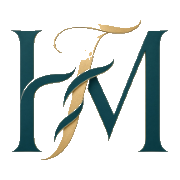
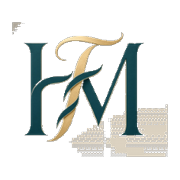
Drop the extra Her First Meal line and restore the full monogram

diff --git a/src/routes/index.tsx b/src/routes/index.tsx
@@ -75,13 +75,10 @@ function Hero({ content, variant }: { content: LandingContent; variant: "cinemat
       <section className="grid min-h-[100dvh] bg-wash-linen lg:grid-cols-2">
         <div className="flex flex-col justify-end px-4 py-24 md:px-10 md:py-28">
           <h1>
-            <HouseMark className="h-20 w-auto md:h-24" />
+            <HouseMark className="h-20 w-auto max-w-none md:h-24" />
             <span className="sr-only">Her First Meal</span>
           </h1>
-          <p className="mt-8 font-display text-[clamp(2.4rem,5vw,4.6rem)] leading-[1.05] text-ink">
-            Her First Meal
-          </p>
-          <p className="mt-4 font-display text-[clamp(1.8rem,3.6vw,3rem)] leading-[1.1] text-ink">
+          <p className="mt-8 font-display text-[clamp(1.8rem,3.6vw,3rem)] leading-[1.1] text-ink">
             The world celebrates the baby.
             <span className="mt-2 block italic text-gold">We remember the mother.</span>
           </p>
@@ -121,14 +118,11 @@ function Hero({ content, variant }: { content: LandingContent; variant: "cinemat
         }
       >
         <div className={centered ? "stagger max-w-3xl" : "stagger max-w-3xl"}>
-          <h1 className={centered ? "flex flex-col items-center" : ""}>
-            <HouseMark className={`h-24 w-auto md:h-32 ${centered ? "mx-auto" : ""}`} />
+          <h1 className={`overflow-visible ${centered ? "flex flex-col items-center" : ""}`}>
+            <HouseMark className={`h-28 w-auto max-w-none md:h-36 ${centered ? "mx-auto" : ""}`} />
             <span className="sr-only">Her First Meal</span>
           </h1>
-          <p className={`mt-8 font-display text-[clamp(2.6rem,6vw,5rem)] leading-[1.02] text-paper [text-shadow:0_10px_32px_rgba(12,16,14,0.4)] ${centered ? "text-center" : ""}`}>
-            Her First Meal
-          </p>
-          <p className={`mt-5 font-display text-[clamp(1.7rem,3.8vw,3.1rem)] leading-[1.12] text-paper [text-shadow:0_8px_28px_rgba(12,16,14,0.35)] ${centered ? "text-center" : ""}`}>
+          <p className={`mt-8 font-display text-[clamp(1.7rem,3.8vw,3.1rem)] leading-[1.12] text-paper [text-shadow:0_8px_28px_rgba(12,16,14,0.35)] ${centered ? "text-center" : ""}`}>
             The world celebrates the baby.
             <span className="mt-2 block italic text-gold">We remember the mother.</span>
           </p>

diff --git a/src/components/brand/logo.tsx b/src/components/brand/logo.tsx
@@ -2,10 +2,16 @@ import { Link } from "@tanstack/react-router";
 import { cn } from "@/lib/utils";
 import { usePublicSite } from "@/lib/use-public-site";
 
-export const HOUSE_MARK = "/images/logos/mark-hfm.png";
+export const HOUSE_MARK = "/images/logos/mark-hfm.png?v=7";
 
 export function HouseMark({ className }: { className?: string }) {
-  return <img src={HOUSE_MARK} alt="" className={cn("bg-transparent object-contain", className)} />;
+  return (
+    <img
+      src={HOUSE_MARK}
+      alt=""
+      className={cn("max-w-none bg-transparent object-contain object-left", className)}
+    />
+  );
 }
 
 export function BrandEmblem({ className }: { className?: string }) {

diff --git a/src/styles.css b/src/styles.css
@@ -241,6 +241,10 @@
 .stagger > * {
   animation: reveal-up 700ms var(--ease-out-soft) both;
 }
+.stagger > h1 {
+  animation: none;
+  filter: none;
+}
 .stagger > *:nth-child(1) { animation-delay: 40ms; }
 .stagger > *:nth-child(2) { animation-delay: 120ms; }
 .stagger > *:nth-child(3) { animation-delay: 200ms; }
